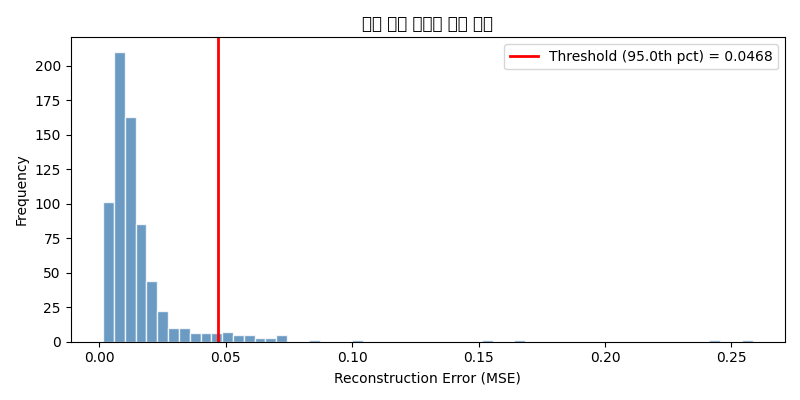
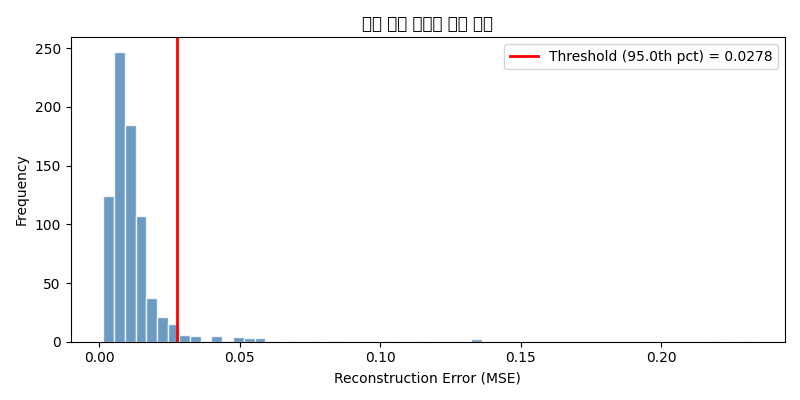
데이터 학습

diff --git a/src/train/train_ae.py b/src/train/train_ae.py
@@ -1,31 +1,16 @@
 """Autoencoder(이상자세) 학습 스크립트. 정상 자세 데이터만으로 비지도 학습."""
 
-
-"""
-train.py
----------
-Autoencoder 학습 스크립트.
-수집한 정상 자세 .npy 파일로 모델을 학습하고,
-학습 후 이상 탐지 임계값(threshold)을 자동 계산하여 함께 저장한다.
-
-사용법 (VS Code 터미널 / Google Colab):
-    python train.py --data data/normal_poses.npy --epochs 100
-
-Google Colab 예시:
-    !python train.py --data data/normal_poses.npy --epochs 150 --latent 16
-"""
-
 from config import PATHS, WEIGHT_FILES
-import argparse
 import os
 
 import numpy as np
 import torch
 import torch.nn as nn
-from torch.utils.data import DataLoader, TensorDataset, random_split
+from torch.utils.data import DataLoader, ConcatDataset
 import matplotlib.pyplot as plt
 
 from src.models.autoencoder import PoseAutoencoder
+from src.data.dataset_ae import AutoencoderDataset
 
 
 # ─────────────────────────────────────────────
@@ -33,44 +18,26 @@ from src.models.autoencoder import PoseAutoencoder
 # ─────────────────────────────────────────────
 
 def train(
-    data_path: str,
-    save_dir: str   = "checkpoints",
-    epochs: int     = 100,
+    save_dir: str = "checkpoints",
+    epochs: int = 100,
     batch_size: int = 64,
-    lr: float       = 1e-3,
+    lr: float = 1e-3,
     latent_dim: int = 16,
-    val_ratio: float= 0.1,
     threshold_percentile: float = 95.0,
 ):
-    """
-    Args:
-        data_path            : 정상 자세 .npy 파일 경로
-        save_dir             : 모델 및 임계값 저장 폴더
-        epochs               : 학습 에폭 수
-        batch_size           : 배치 크기
-        lr                   : 학습률
-        latent_dim           : 잠재 공간 차원
-        val_ratio            : 검증 셋 비율
-        threshold_percentile : 임계값 계산에 사용할 백분위수 (기본 95%)
-    """
     os.makedirs(save_dir, exist_ok=True)
     device = torch.device("cuda" if torch.cuda.is_available() else "cpu")
     print(f"[장치] {device}")
 
-    # ── 데이터 로드 ──────────────────────────────────────────────
-    raw = np.load(data_path).astype(np.float32)
-    print(f"[데이터] {data_path}  shape: {raw.shape}")
-
-    tensor = torch.tensor(raw)
-    dataset = TensorDataset(tensor)
-
-    n_val  = max(1, int(len(dataset) * val_ratio))
-    n_train = len(dataset) - n_val
-    train_set, val_set = random_split(dataset, [n_train, n_val],
-                                       generator=torch.Generator().manual_seed(42))
+    # ── 데이터 로드 (AutoencoderDataset 사용) ────────────────────
+    train_set = AutoencoderDataset(split="train")
+    val_set   = AutoencoderDataset(split="val")
 
     train_loader = DataLoader(train_set, batch_size=batch_size, shuffle=True,  drop_last=True)
     val_loader   = DataLoader(val_set,   batch_size=batch_size, shuffle=False)
+
+    n_train = len(train_set)
+    n_val   = len(val_set)
     print(f"[분할] 학습 {n_train}개 | 검증 {n_val}개")
 
     # ── 모델 / 옵티마이저 / 손실 ─────────────────────────────────
@@ -87,7 +54,7 @@ def train(
         # Train
         model.train()
         running_loss = 0.0
-        for (batch,) in train_loader:
+        for batch, _ in train_loader:  # (feature, feature) 반환
             batch = batch.to(device)
             optimizer.zero_grad()
             out  = model(batch)
@@ -101,7 +68,7 @@ def train(
         model.eval()
         val_running = 0.0
         with torch.no_grad():
-            for (batch,) in val_loader:
+            for batch, _ in val_loader:  # (feature, feature) 반환
                 batch = batch.to(device)
                 out  = model(batch)
                 loss = criterion(out, batch)
@@ -121,15 +88,16 @@ def train(
 
     print(f"\n[최적 검증 손실] {best_val_loss:.6f}")
 
-    # ── 임계값 계산 ──────────────────────────────────────────────
-    # 학습 전체 데이터에 대한 재구성 오차 분포에서 percentile을 임계값으로 설정
+    # ── 임계값 계산 (train + val 전체 데이터 기준) ───────────────
     model.load_state_dict(torch.load(os.path.join(save_dir, "autoencoder_best.pth"), map_location=device))
     model.eval()
 
+    full_set    = ConcatDataset([train_set, val_set])
+    full_loader = DataLoader(full_set, batch_size=256, shuffle=False)
+
     all_errors = []
-    full_loader = DataLoader(TensorDataset(tensor), batch_size=256, shuffle=False)
     with torch.no_grad():
-        for (batch,) in full_loader:
+        for batch, _ in full_loader:
             batch = batch.to(device)
             err = model.reconstruction_error(batch)
             all_errors.extend(err.cpu().numpy().tolist())
@@ -138,7 +106,6 @@ def train(
     threshold = float(np.percentile(all_errors, threshold_percentile))
     print(f"[임계값] {threshold_percentile}th 백분위 → {threshold:.6f}")
 
-    # 임계값 저장
     threshold_path = os.path.join(save_dir, "threshold.npy")
     np.save(threshold_path, np.array([threshold]))
     print(f"[저장] 임계값 → {threshold_path}")
@@ -160,7 +127,8 @@ def train(
     # ── 재구성 오차 분포 그래프 ──────────────────────────────────
     plt.figure(figsize=(8, 4))
     plt.hist(all_errors, bins=60, color="steelblue", edgecolor="white", alpha=0.8)
-    plt.axvline(threshold, color="red", linewidth=2, label=f"Threshold ({threshold_percentile}th pct) = {threshold:.4f}")
+    plt.axvline(threshold, color="red", linewidth=2,
+                label=f"Threshold ({threshold_percentile}th pct) = {threshold:.4f}")
     plt.xlabel("Reconstruction Error (MSE)")
     plt.ylabel("Frequency")
     plt.title("정상 자세 재구성 오차 분포")
@@ -175,18 +143,17 @@ def train(
 
 
 if __name__ == "__main__":
+    import argparse
     parser = argparse.ArgumentParser(description="Autoencoder 학습")
-    parser.add_argument("--data",       default=str(PATHS["raw"] / "normal_poses.npy"), help="학습 데이터 경로")
-    parser.add_argument("--save_dir",   default=str(PATHS["weights"]),           help="모델 저장 폴더")
+    parser.add_argument("--save_dir",   default=str(PATHS["weights"]), help="모델 저장 폴더")
     parser.add_argument("--epochs",     type=int,   default=100)
     parser.add_argument("--batch_size", type=int,   default=64)
     parser.add_argument("--lr",         type=float, default=1e-3)
-    parser.add_argument("--latent",     type=int,   default=16,          help="잠재 공간 차원")
-    parser.add_argument("--percentile", type=float, default=95.0,        help="임계값 백분위")
+    parser.add_argument("--latent",     type=int,   default=16,   help="잠재 공간 차원")
+    parser.add_argument("--percentile", type=float, default=95.0, help="임계값 백분위")
     args = parser.parse_args()
 
     train(
-        data_path=args.data,
         save_dir=args.save_dir,
         epochs=args.epochs,
         batch_size=args.batch_size,
